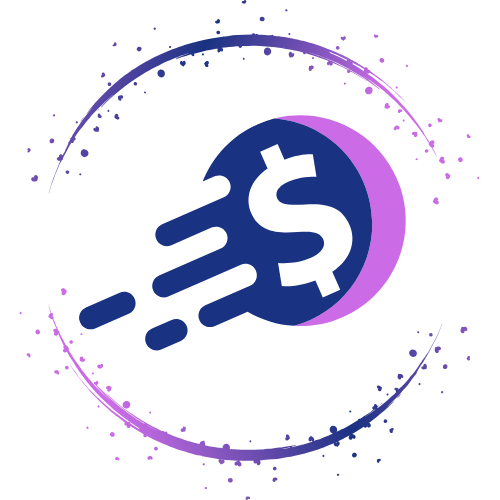
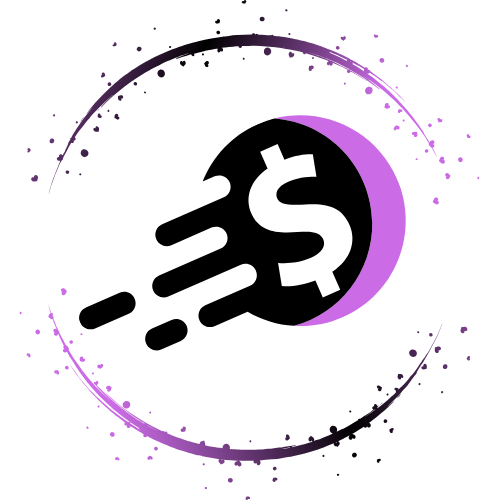
Update branding and UI components
- Add new coinbox-ai-logo.png asset
- Update logo references in HeaderSidebar, HeroSection, and BottomCTA
- Update README with new logo path
- Refresh coinbox-ai.png asset

diff --git a/src/components/HeaderSidebar.tsx b/src/components/HeaderSidebar.tsx
@@ -235,10 +235,10 @@ const HeaderSidebar: React.FC<{ children: React.ReactNode }> = ({ children }) =>
         return (
             <div className="flex flex-col min-h-screen bg-background w-full overflow-x-hidden">
                 {/* Marketing-style header for public pages (logged-out state) */}
-                <header className="w-full border-b bg-slate-950/80 backdrop-blur-md">
+                <header className="w-full border-b" style={{ backgroundColor: '#193281' }}>
                     <div className="max-w-7xl mx-auto flex h-16 items-center justify-between px-4 sm:px-6 lg:px-8">
                         {/* Logo */}
-                        <div className="flex items-center">
+                        <div className="flex items-center cursor-pointer" onClick={() => router.push('/')}>
                             <Image
                                 src="/assets/coinbox-ai.png"
                                 alt="CoinBox Logo"
@@ -247,24 +247,16 @@ const HeaderSidebar: React.FC<{ children: React.ReactNode }> = ({ children }) =>
                                 className="rounded-full"
                             />
                             <span className="ml-2 text-lg font-bold text-white hidden sm:inline-block">
-                                CoinBox Connect
+                                CoinBox
                             </span>
                         </div>
 
                         {/* Logged-out header actions */}
                         <div className="flex items-center gap-3">
                             <Button
-                                variant="ghost"
-                                size="sm"
-                                className="text-slate-200 hover:text-white"
-                                onClick={() => router.push('/about')}
-                            >
-                                About
-                            </Button>
-                            <Button
                                 variant="outline"
                                 size="sm"
-                                className="border-slate-500 text-slate-100 hover:bg-slate-800"
+                                className="border-white/30 text-white hover:bg-white/10"
                                 onClick={() => router.push('/auth')}
                             >
                                 Sign In
@@ -280,7 +272,7 @@ const HeaderSidebar: React.FC<{ children: React.ReactNode }> = ({ children }) =>
                     </div>
                 </header>
 
-                <main className="flex-1 w-full min-w-0 overflow-x-hidden">
+                <main className="flex-1 w-full min-w-0 overflow-x-hidden pt-0">
                     {children}
                 </main>
 
@@ -293,66 +285,44 @@ const HeaderSidebar: React.FC<{ children: React.ReactNode }> = ({ children }) =>
     return (
         <div className="flex flex-col min-h-screen bg-background w-full overflow-x-hidden">
             {/* Unified Header: marketing-style layout with dashboard color */}
-            <header className="sticky top-0 z-50 w-full border-b shadow-sm bg-slate-950/90 backdrop-blur-md">
+            <header className="sticky top-0 z-50 w-full border-b shadow-sm" style={{ backgroundColor: '#193281' }}>
                 <div className="max-w-7xl mx-auto flex h-16 items-center justify-between px-4 sm:px-6 lg:px-8">
                     {/* Mobile Menu Button */}
-                    <motion.div
-                        whileTap={{ scale: 0.95 }}
-                    >
+                    <div>
                         <Button
                             variant="ghost"
-                            className="mr-2 px-2 text-slate-200 hover:text-white lg:hidden"
+                            className="mr-2 px-2 text-white hover:bg-white/10 lg:hidden"
                             onClick={() => setIsMobileMenuOpen(!isMobileMenuOpen)}
                         >
-                            <motion.div
-                                animate={{ rotate: isMobileMenuOpen ? 90 : 0 }}
-                                transition={{ duration: 0.3 }}
-                            >
-                                {isMobileMenuOpen ? (
-                                    <motion.div
-                                        initial={{ opacity: 0, rotate: 90 }}
-                                        animate={{ opacity: 1, rotate: 0 }}
-                                    >
-                                        <X className="h-6 w-6" />
-                                    </motion.div>
-                                ) : (
-                                    <Menu className="h-6 w-6" />
-                                )}
-                            </motion.div>
+                            {isMobileMenuOpen ? (
+                                <X className="h-6 w-6" />
+                            ) : (
+                                <Menu className="h-6 w-6" />
+                            )}
                         </Button>
-                    </motion.div>
-
-                    {/* Logo */}
-                    <div className="flex items-center">
-                        <Image
-                            src="/assets/coinbox-ai.png"
-                            alt="CoinBox Logo"
-                            width={40}
-                            height={40}
-                            className="rounded-full"
-                        />
-                        <span className="ml-2 text-lg font-bold text-white hidden sm:inline-block">
-                            CoinBox Connect
-                        </span>
                     </div>
 
-                    {/* Right Section: logged-out vs logged-in */}
+                        {/* Logo */}
+                        <div className="flex items-center cursor-pointer" onClick={() => router.push('/dashboard')}>
+                            <Image
+                                src="/assets/coinbox-ai.png"
+                                alt="CoinBox Logo"
+                                width={40}
+                                height={40}
+                                className="rounded-full"
+                            />
+                            <span className="ml-2 text-lg font-bold text-white hidden sm:inline-block">
+                                CoinBox
+                            </span>
+                        </div>                    {/* Right Section: logged-out vs logged-in */}
                     <div className="flex items-center gap-3 ml-auto">
                         {!user && (
-                            // Logged-out header actions (home-style)
+                            // Logged-out header actions
                             <div className="flex items-center gap-3">
-                                <Button
-                                    variant="ghost"
-                                    size="sm"
-                                    className="text-slate-200 hover:text-white"
-                                    onClick={() => router.push('/about')}
-                                >
-                                    About
-                                </Button>
                                 <Button
                                     variant="outline"
                                     size="sm"
-                                    className="border-slate-500 text-slate-100 hover:bg-slate-800"
+                                    className="border-white/30 text-white hover:bg-white/10"
                                     onClick={() => router.push('/auth')}
                                 >
                                     Sign In

diff --git a/src/components/home/BottomCTA.tsx b/src/components/home/BottomCTA.tsx
@@ -32,13 +32,7 @@ export default function BottomCTA({ onOpenLogin, onOpenSignup }: BottomCTAProps)
         >
           Choose a tier, fund your security deposit, and start trading, borrowing, and earning commissions with a single wallet.
         </motion.p>
-        <motion.div
-          initial={{ opacity: 0, y: 20 }}
-          whileInView={{ opacity: 1, y: 0 }}
-          viewport={{ once: true }}
-          transition={{ duration: 0.6, delay: 0.2 }}
-          className="mt-8 flex flex-col sm:flex-row gap-4 justify-center"
-        >
+        <div className="mt-8 flex flex-col sm:flex-row gap-4 justify-center">
           <Button
             size="lg"
             onClick={onOpenSignup}
@@ -54,7 +48,7 @@ export default function BottomCTA({ onOpenLogin, onOpenSignup }: BottomCTAProps)
           >
             Sign In
           </Button>
-        </motion.div>
+        </div>
       </div>
     </section>
   );

diff --git a/src/components/home/HeroSection.tsx b/src/components/home/HeroSection.tsx
@@ -150,12 +150,7 @@ export default function HeroSection({ onOpenLogin, onOpenSignup }: HeroSectionPr
           </motion.div>
 
           {/* CTA Buttons */}
-          <motion.div
-            initial={{ opacity: 0.95, y: 4 }}
-            animate={{ opacity: 1, y: 0 }}
-            transition={{ duration: 0.5, delay: 0.25 }}
-            className="flex flex-col sm:flex-row gap-4 justify-center items-center"
-          >
+          <div className="flex flex-col sm:flex-row gap-4 justify-center items-center">
             <Button
               size="lg"
               onClick={onOpenSignup}
@@ -172,7 +167,7 @@ export default function HeroSection({ onOpenLogin, onOpenSignup }: HeroSectionPr
             >
               Sign In
             </Button>
-          </motion.div>
+          </div>
 
           {/* Scroll Indicator */}
           <motion.div

diff --git a/README.md b/README.md
@@ -1,7 +1,7 @@
-# CoinBox AI - Production Ready Platform 🚀
+# CoinBox - Production Ready P2P Financial Platform 🚀
 
 ## Business Type
-Peer-to-Peer (P2P) Financial Platform
+Peer-to-Peer (P2P) Financial Platform for Lending & Investment
 
 ## Vision Statement
 To revolutionize peer-to-peer financial transactions by offering a secure, transparent, and efficient coin-based marketplace that empowers individuals and businesses to invest and loan digital assets with confidence.
@@ -13,7 +13,7 @@ To provide an innovative, user-friendly, and secure digital marketplace where us
 
 ## 🎯 Production Status: READY FOR DEPLOYMENT ✅
 
-**Last Updated:** November 28, 2024  
+**Last Updated:** December 1, 2025  
 **Build Status:** ✅ PASSING  
 **Tests:** 220 passing | 86.29% coverage ✅  
 **Deployment Risk:** LOW - **PRODUCTION READY**
